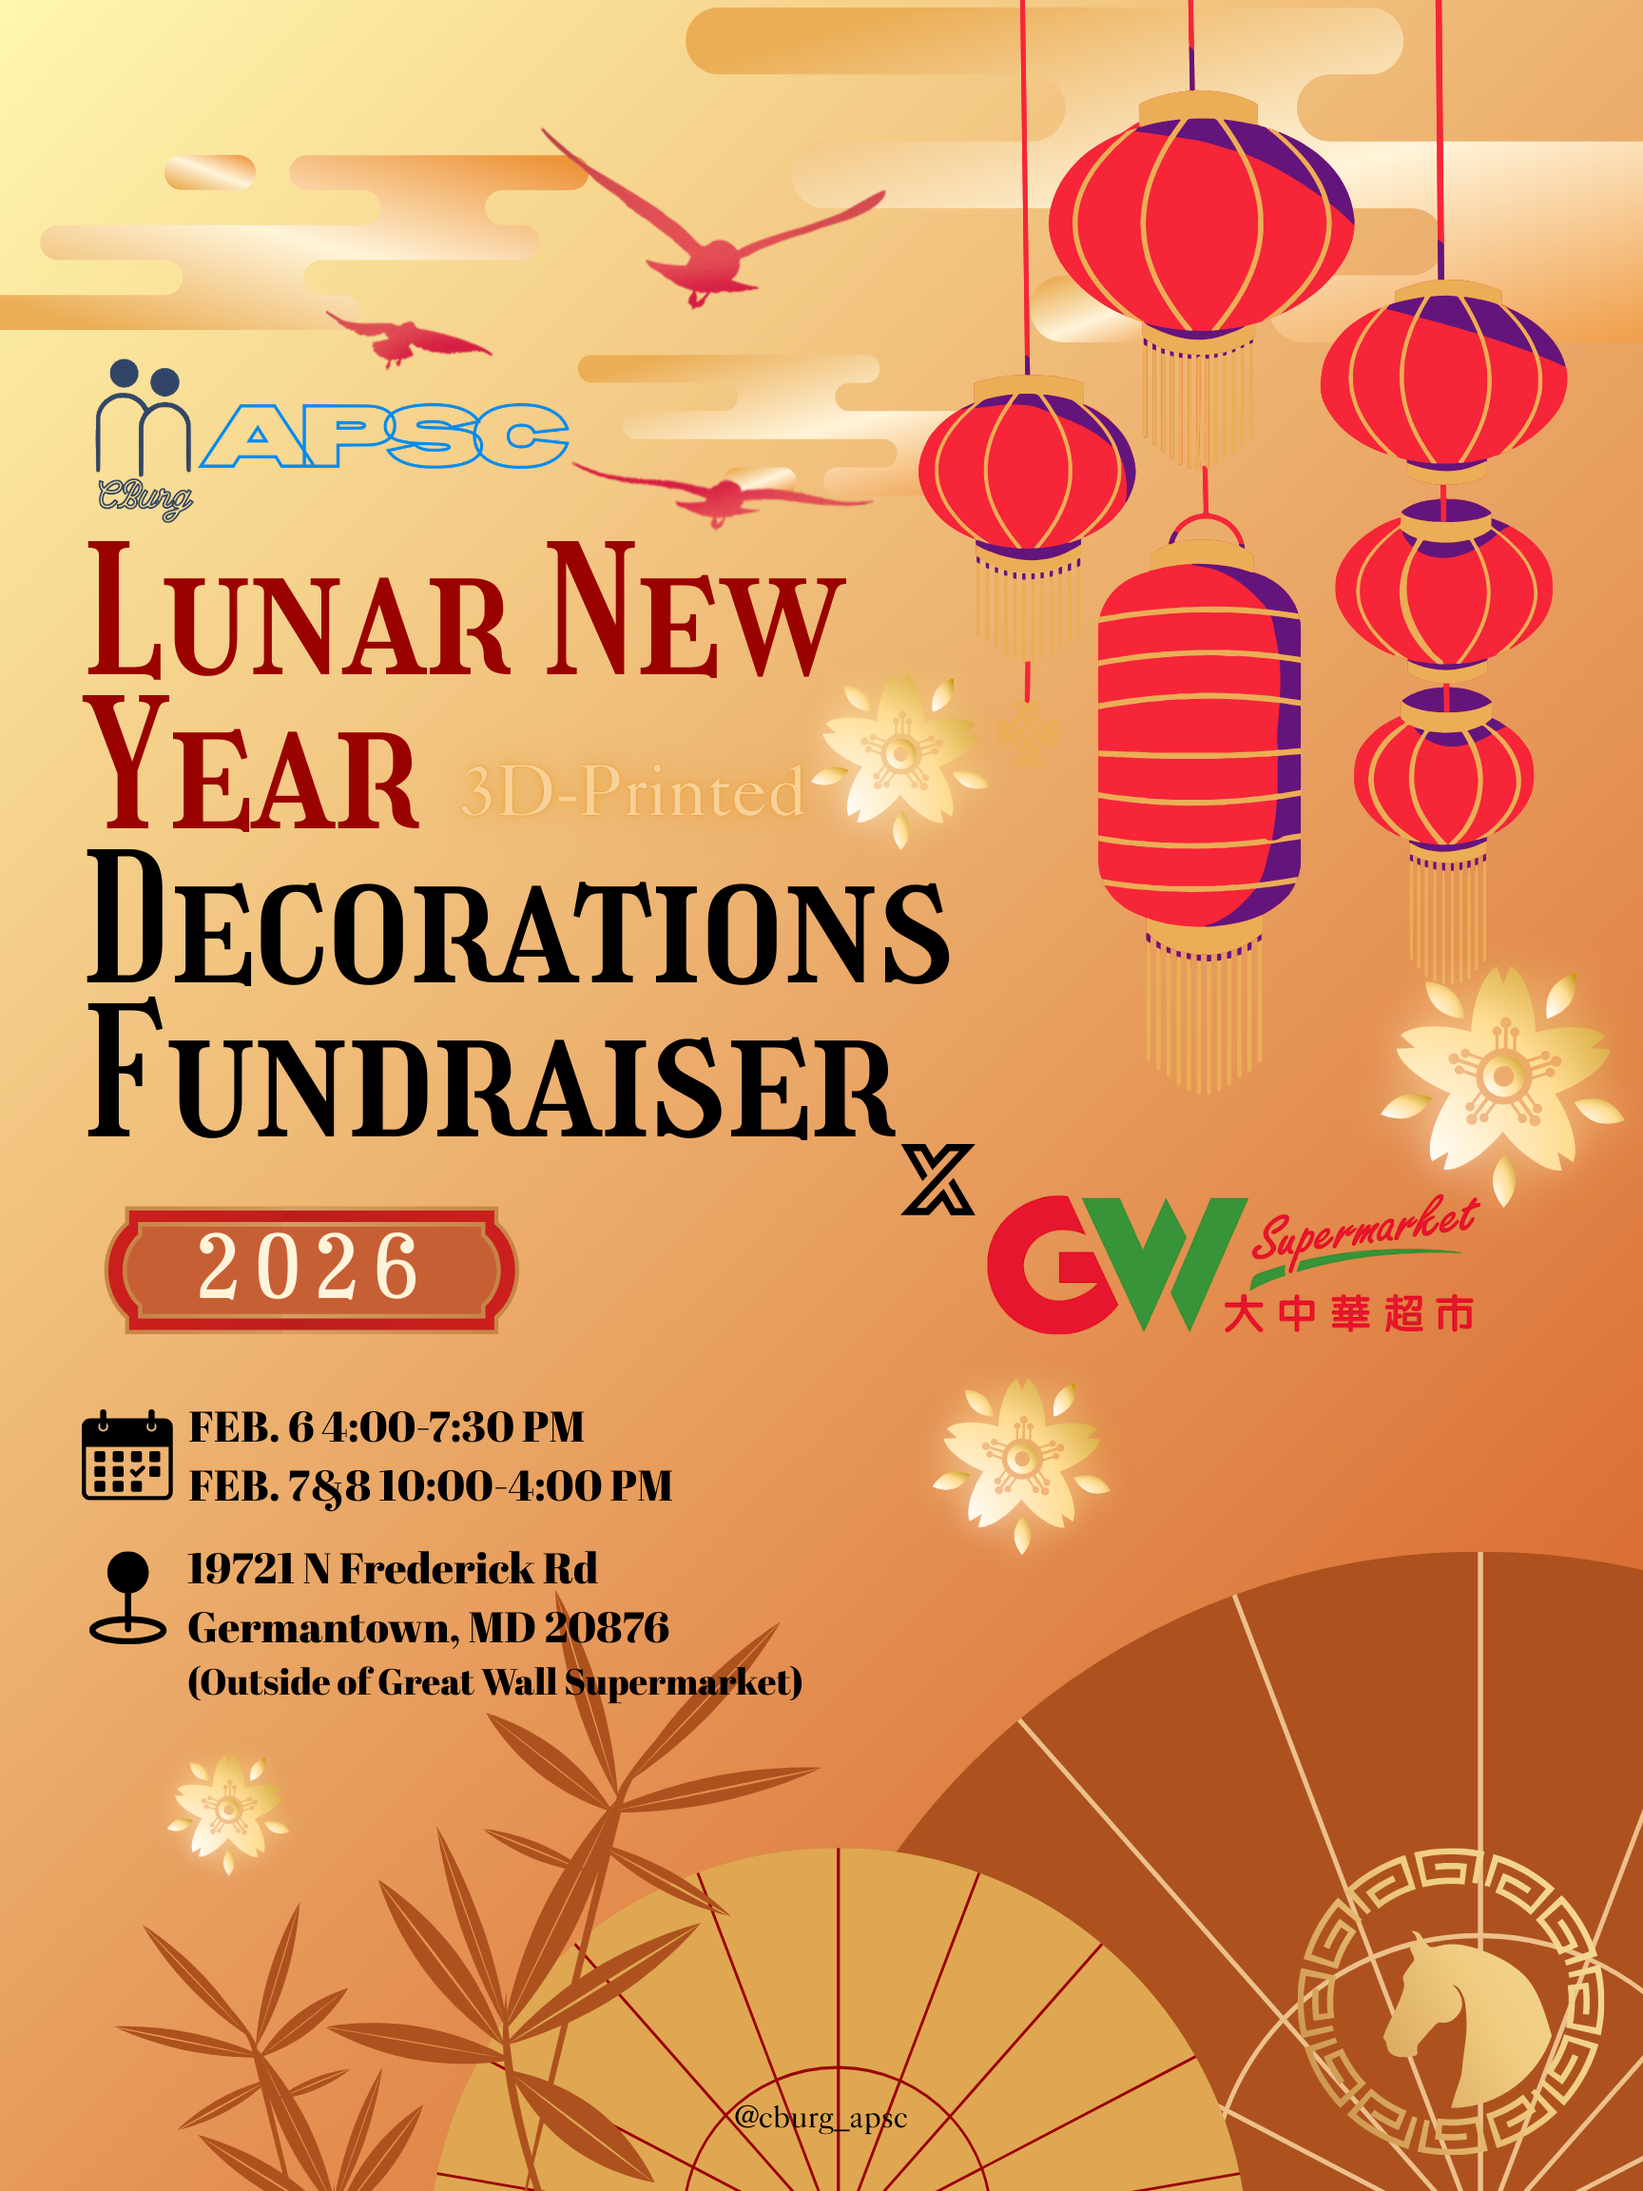
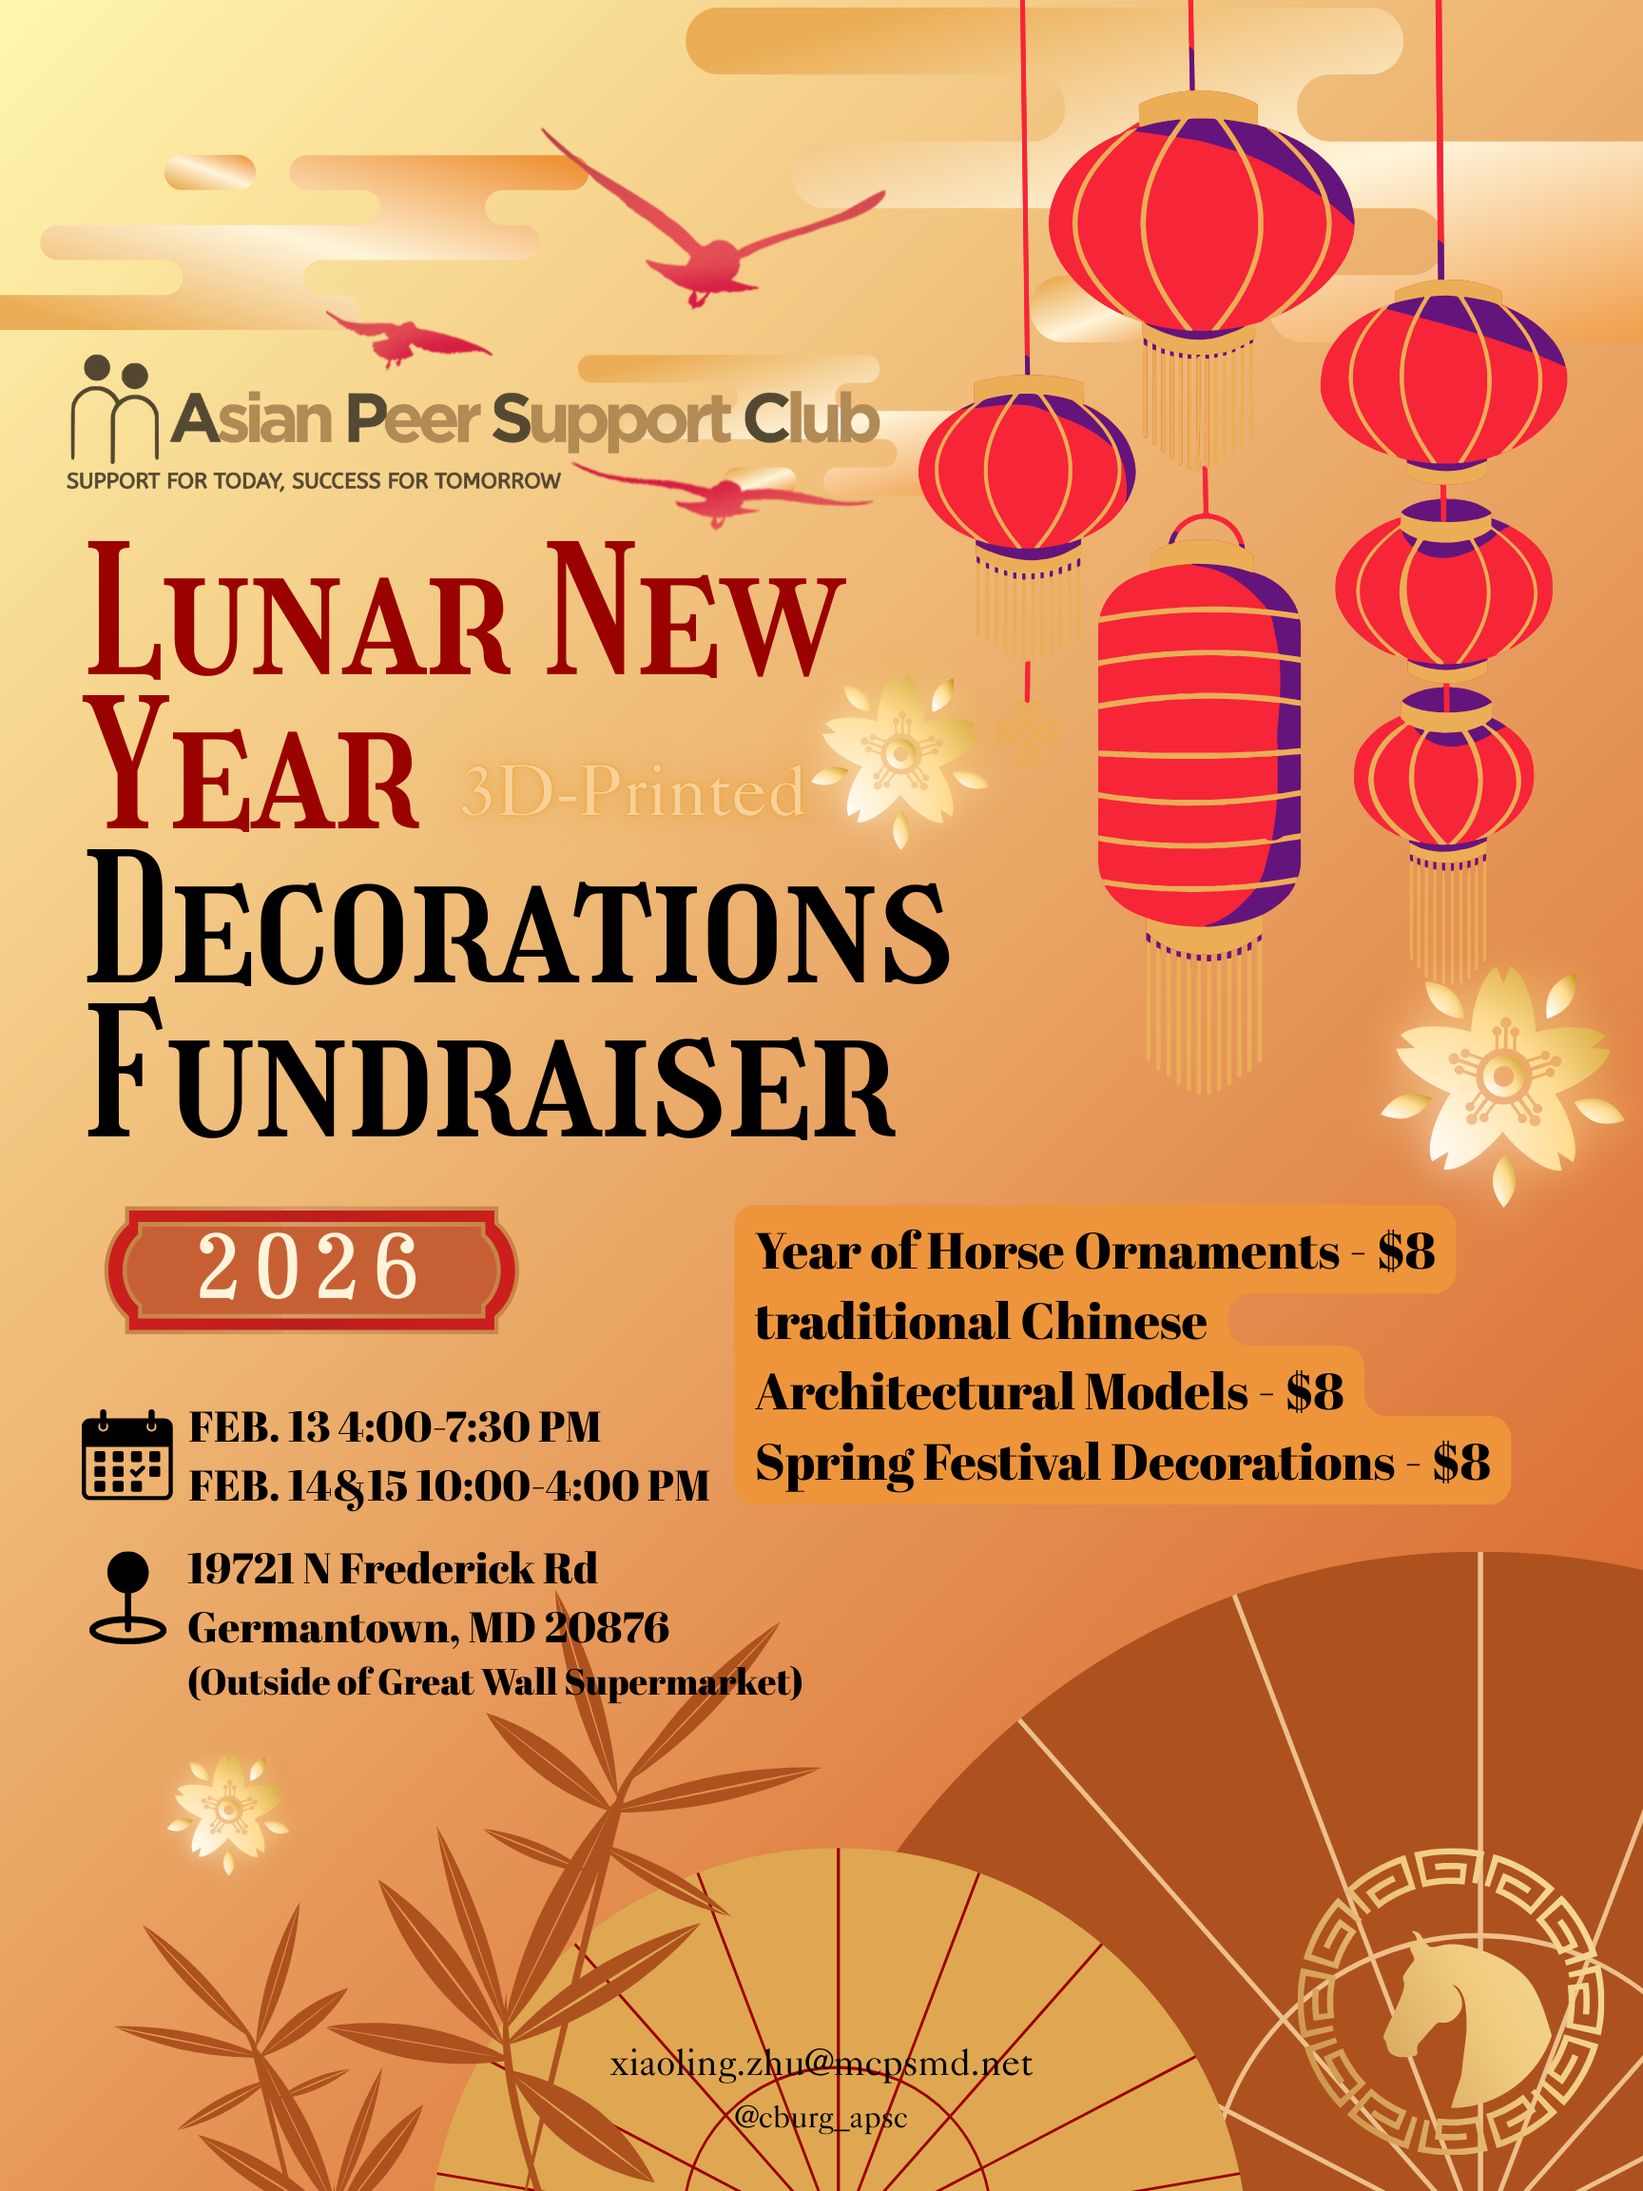
Add files via upload

Changed region(s): [[0.1875, 0.5, 0.9375, 0.7188], [0.0312, 0.1562, 0.5312, 0.25], [0.375, 0.9375, 0.625, 0.9688]]

diff --git a/fundraiser.html b/fundraiser.html
@@ -267,8 +267,8 @@
         <div class="event-details-card">
             <div class="info-group">
                 <h4 data-key="label-time">DATE & TIME</h4>
-                <p><strong>Feb 6, 2026 (Fri)</strong> <span class="sub">4:00 PM - 7:30 PM</span></p>
-                <p><strong>Feb 7 - 8, 2026 (Sat & Sun)</strong> <span class="sub">10:00 AM - 4:00 PM</span></p>
+                <p><strong>Feb 13, 2026 (Fri)</strong> <span class="sub">4:00 PM - 7:30 PM</span></p>
+                <p><strong>Feb 14 - 15, 2026 (Sat & Sun)</strong> <span class="sub">10:00 AM - 4:00 PM</span></p>
             </div>
             
             <div class="info-group">
